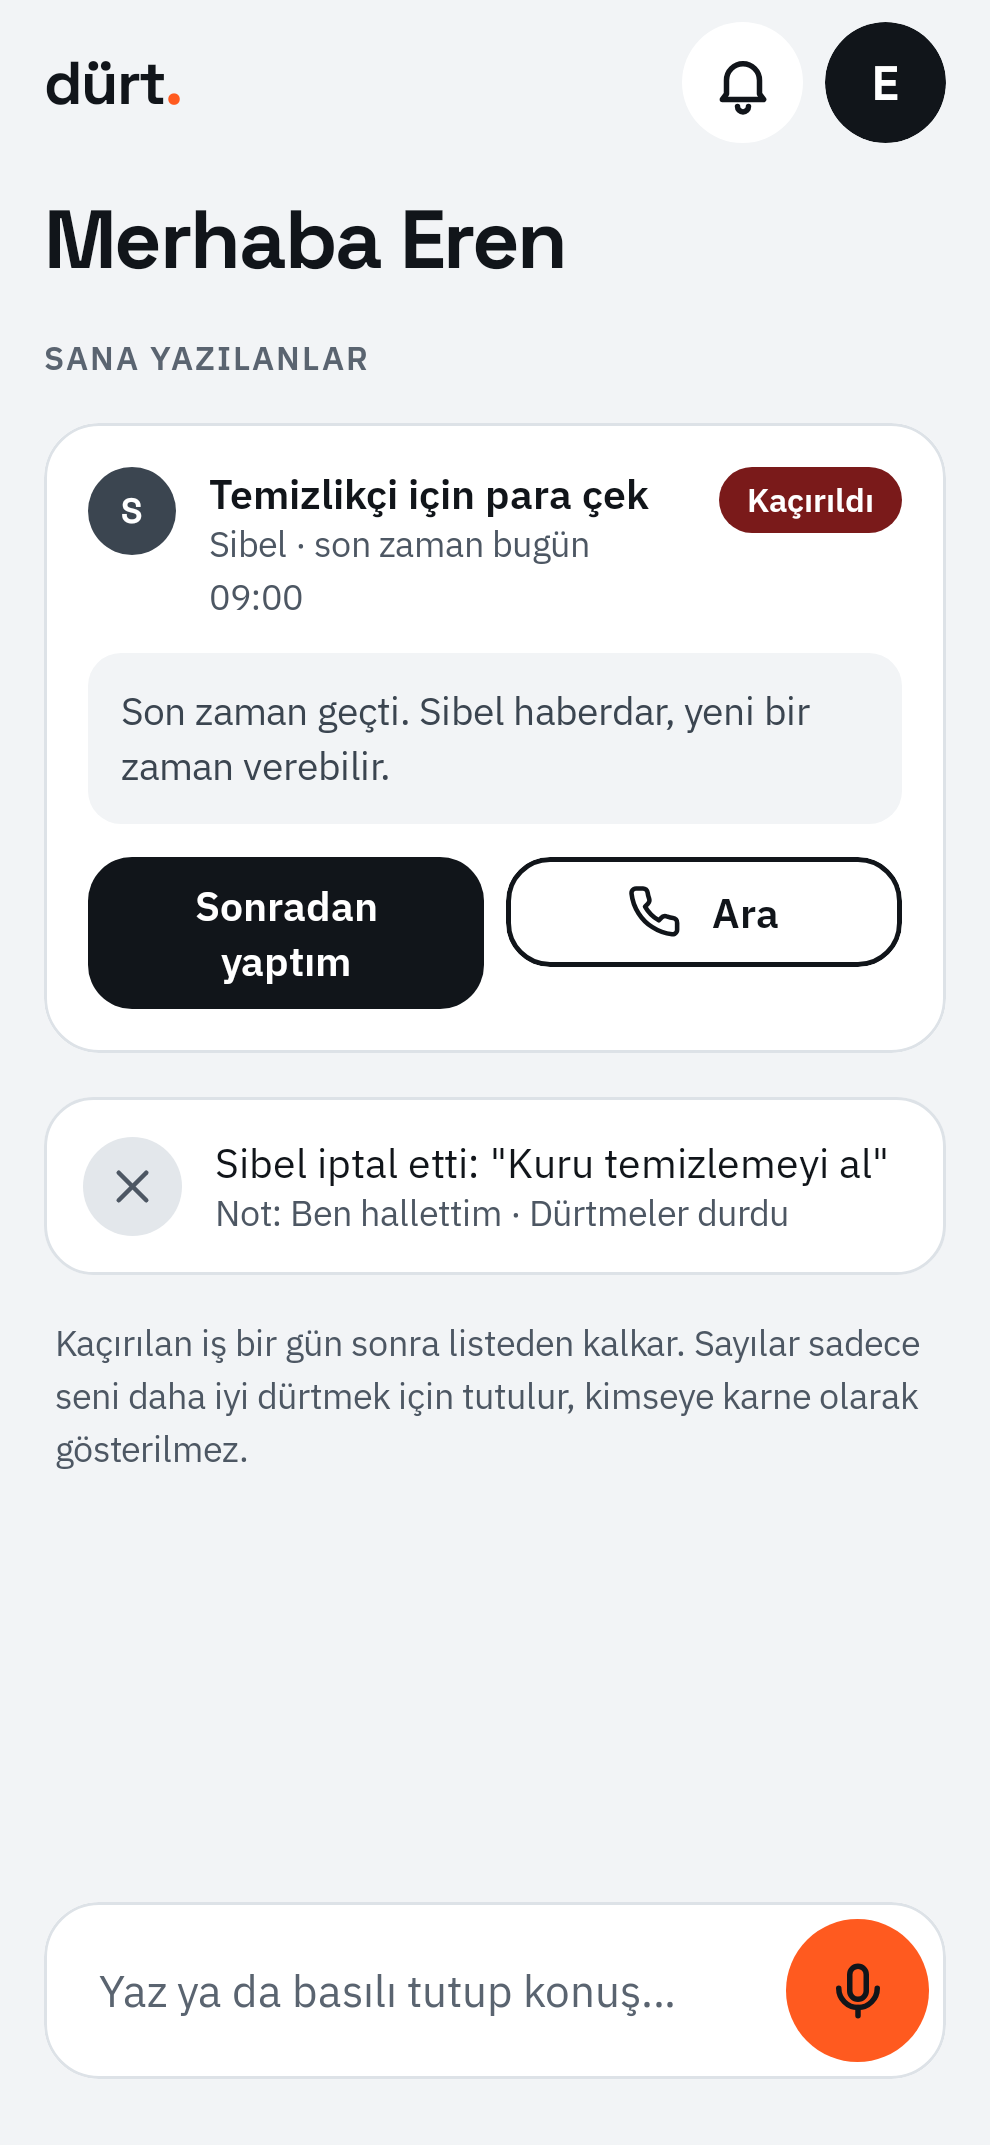
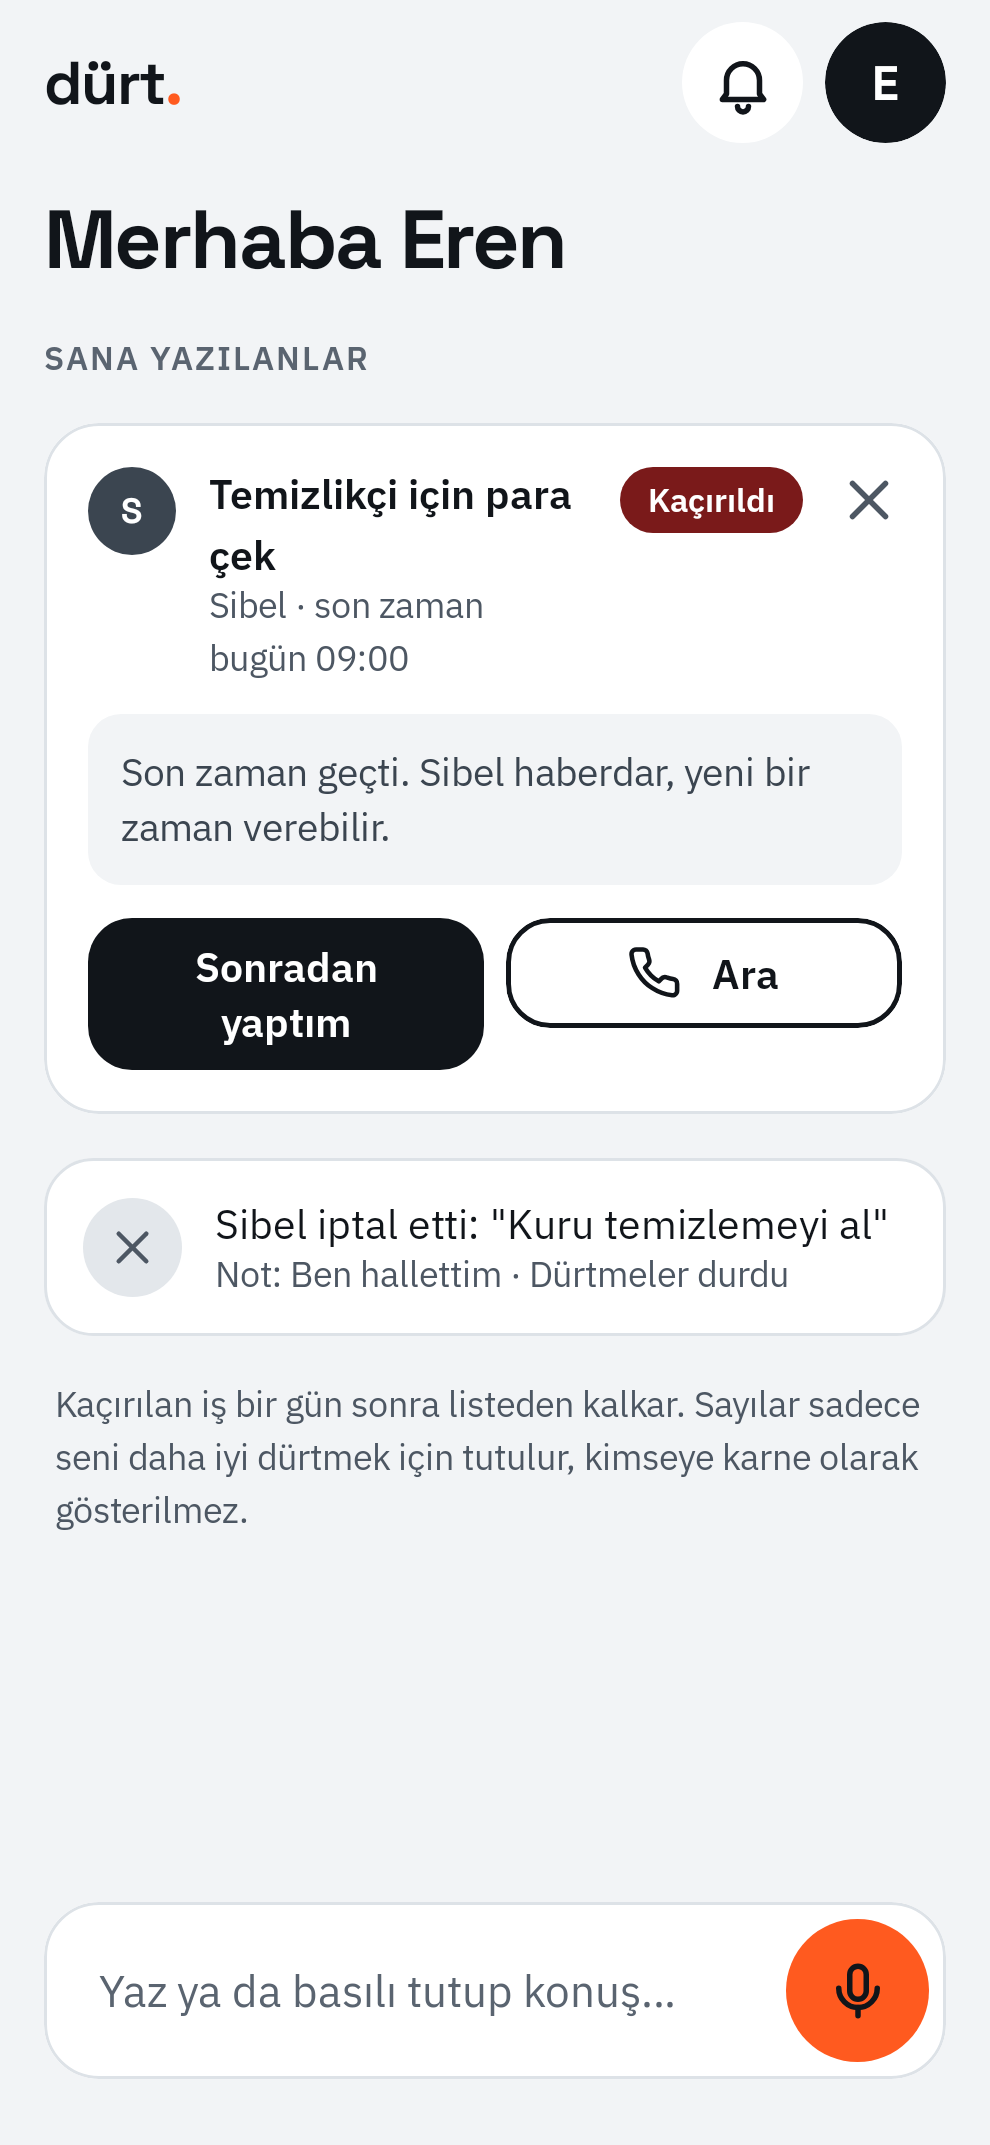
NUD-49 Kaldır on a missed card, Android
The recipient's missed card gets a close button (×, "Kaldır") in its top
right. It takes the card off my list at once and queues remove_missed; the
task stays missed for the sender.

Claude-Session: https://claude.ai/code/session_01MpnPveQqLsx472DNRojrYK

diff --git a/apps/android/app/src/main/kotlin/app/nuddle/ui/components/TaskCards.kt b/apps/android/app/src/main/kotlin/app/nuddle/ui/components/TaskCards.kt
@@ -4,13 +4,17 @@ import androidx.compose.foundation.background
 import androidx.compose.foundation.border
 import androidx.compose.foundation.clickable
 import androidx.compose.foundation.layout.Arrangement
+import androidx.compose.foundation.layout.Box
 import androidx.compose.foundation.layout.Column
 import androidx.compose.foundation.layout.FlowRow
 import androidx.compose.foundation.layout.Row
 import androidx.compose.foundation.layout.fillMaxWidth
 import androidx.compose.foundation.layout.heightIn
 import androidx.compose.foundation.layout.padding
+import androidx.compose.foundation.layout.size
+import androidx.compose.foundation.shape.CircleShape
 import androidx.compose.foundation.shape.RoundedCornerShape
+import androidx.compose.material3.Icon
 import androidx.compose.material3.Text
 import androidx.compose.runtime.Composable
 import androidx.compose.runtime.Immutable
@@ -21,10 +25,15 @@ import androidx.compose.ui.graphics.Color
 import androidx.compose.ui.graphics.vector.ImageVector
 import androidx.compose.ui.platform.testTag
 import androidx.compose.ui.res.stringResource
+import androidx.compose.ui.semantics.Role
 import androidx.compose.ui.semantics.clearAndSetSemantics
 import androidx.compose.ui.semantics.contentDescription
+import androidx.compose.ui.semantics.role
+import androidx.compose.ui.semantics.semantics
 import androidx.compose.ui.text.style.TextOverflow
 import app.nuddle.R
+import app.nuddle.ui.TestTags
+import app.nuddle.ui.icons.DurtIcons
 import app.nuddle.ui.preview.PreviewComponent
 import app.nuddle.ui.preview.PreviewSurface
 import app.nuddle.ui.theme.DurtTheme
@@ -146,6 +155,8 @@ fun TaskActionCard(
     primary: CardAction,
     modifier: Modifier = Modifier,
     secondary: CardAction? = null,
+    /** A close button (×, "Kaldır") in the top right: the recipient's missed card (NUD-49). */
+    onRemove: (() -> Unit)? = null,
 ) {
     val colors = DurtTheme.colors
     val dimens = DurtTheme.dimens
@@ -167,6 +178,7 @@ fun TaskActionCard(
                 Text(task.subtitle, style = DurtTheme.type.caption, color = colors.textSecondary)
             }
             StatusPill(task.status)
+            if (onRemove != null) RemoveButton(onRemove)
         }
         Text(
             text = message,
@@ -197,6 +209,24 @@ fun TaskActionCard(
                 )
             }
         }
+    }
+}
+
+/** The × of a card that can be taken off the list (NUD-49). */
+@Composable
+private fun RemoveButton(onRemove: () -> Unit) {
+    val description = stringResource(R.string.issue_remove)
+    Box(
+        modifier =
+            Modifier
+                .size(DurtTheme.dimens.iconLarge)
+                .clip(CircleShape)
+                .clickable(role = Role.Button, onClick = onRemove)
+                .semantics { contentDescription = description }
+                .testTag(TestTags.ISSUE_REMOVE),
+        contentAlignment = Alignment.Center,
+    ) {
+        Icon(DurtIcons.Close, contentDescription = null, tint = DurtTheme.colors.textSecondary)
     }
 }
 

diff --git a/apps/android/app/src/main/kotlin/app/nuddle/data/TaskRepository.kt b/apps/android/app/src/main/kotlin/app/nuddle/data/TaskRepository.kt
@@ -6,6 +6,7 @@ import app.nuddle.api.model.DidItLaterCommand
 import app.nuddle.api.model.EditCommand
 import app.nuddle.api.model.FinishMode
 import app.nuddle.api.model.NewDeadlineCommand
+import app.nuddle.api.model.RemoveMissedCommand
 import app.nuddle.api.model.SenderHandlesCommand
 import app.nuddle.api.model.TaskStatus
 import app.nuddle.api.model.Timing
@@ -146,6 +147,9 @@ interface TaskRepository {
 
     /** "Sonradan yaptım" on a missed task (7e): done, late (open-questions#9). Local first, then the outbox. */
     suspend fun didItLater(taskId: String)
+
+    /** "Kaldır" on my missed card (NUD-49): off my list only; the task stays missed for the sender. Local first. */
+    suspend fun removeMissed(taskId: String)
 
     /** "Ben hallederim" on a dropped task (5d): the sender takes it over (open-questions#8). Local first. */
     suspend fun senderHandles(taskId: String)
@@ -297,6 +301,12 @@ class ApiTaskRepository
             tasks.setStatus(taskId, TaskStatus.DONE.value)
             val id = ids.next()
             outbox.enqueue("did_it_later", id, DidItLaterCommand(idempotencyKey = id, taskId = taskId), DidItLaterCommand.serializer())
+        }
+
+        override suspend fun removeMissed(taskId: String) {
+            tasks.hideFromMyList(taskId)
+            val id = ids.next()
+            outbox.enqueue("remove_missed", id, RemoveMissedCommand(idempotencyKey = id, taskId = taskId), RemoveMissedCommand.serializer())
         }
 
         override suspend fun senderHandles(taskId: String) {

diff --git a/apps/android/app/src/test/kotlin/app/nuddle/data/TaskRepositoryTest.kt b/apps/android/app/src/test/kotlin/app/nuddle/data/TaskRepositoryTest.kt
@@ -308,6 +308,27 @@ class TaskRepositoryTest {
         }
 
     @Test
+    fun `Kaldır takes a missed card off my list at once and queues remove_missed (NUD-49)`() =
+        runTest {
+            db.tasks().upsert(listOf(aTask().copy(status = "MISSED")))
+
+            repository.removeMissed(Cast.TASK_ID)
+
+            val task = db.tasks().get(Cast.TASK_ID)
+            assertEquals(false, task?.inRecipientList)
+            assertEquals("MISSED", task?.status)
+            assertEquals(
+                "remove_missed",
+                db
+                    .outbox()
+                    .pending()
+                    .single()
+                    .command,
+            )
+            assertEquals(0, server.requestCount)
+        }
+
+    @Test
     fun `Ben hallederim cancels a dropped task at once and queues sender_handles`() =
         runTest {
             db.tasks().upsert(listOf(aTask().copy(senderId = Cast.EREN_ID, recipientId = Cast.SIBEL_ID, status = "DROPPED")))

diff --git a/apps/android/app/src/test/kotlin/app/nuddle/testing/Fakes.kt b/apps/android/app/src/test/kotlin/app/nuddle/testing/Fakes.kt
@@ -324,6 +324,13 @@ class FakeTaskRepository : TaskRepository {
         didItLater += taskId
     }
 
+    /** Every "Kaldır" on a missed card (NUD-49). */
+    val removedMissed = mutableListOf<String>()
+
+    override suspend fun removeMissed(taskId: String) {
+        removedMissed += taskId
+    }
+
     override suspend fun senderHandles(taskId: String) {
         senderHandled += taskId
     }
@@ -366,6 +373,10 @@ class InMemoryTaskDao : TaskDao {
     override suspend fun all(): List<TaskEntity> = tasks.value.values.toList()
 
     override fun observeAll(): Flow<List<TaskEntity>> = tasks.map { it.values.toList() }
+
+    override suspend fun hideFromMyList(id: String) {
+        tasks.value[id]?.let { tasks.value += id to it.copy(inRecipientList = false) }
+    }
 
     override suspend fun setStatus(
         id: String,

diff --git a/apps/android/app/src/main/kotlin/app/nuddle/ui/screens/home/HomeIssues.kt b/apps/android/app/src/main/kotlin/app/nuddle/ui/screens/home/HomeIssues.kt
@@ -38,6 +38,7 @@ import app.nuddle.ui.uppercaseForUi
 
 data class IssueCallbacks(
     val onDidItLater: (taskId: String) -> Unit = {},
+    val onRemoveMissed: (taskId: String) -> Unit = {},
     val onCall: (phone: String) -> Unit = {},
     val onNewDeadline: (taskId: String) -> Unit = {},
     val onSenderHandles: (taskId: String) -> Unit = {},
@@ -92,6 +93,7 @@ private fun MissedCard(
                 personName = from ?: "",
                 personColor = task.fromId?.let { colors.avatarFor(it) } ?: colors.avatarSelf,
             ),
+        onRemove = { callbacks.onRemoveMissed(task.taskId) },
         message =
             when {
                 from == null && task.deadline.moment -> stringResource(R.string.issue_missed_self_moment)

diff --git a/apps/android/app/src/test/kotlin/app/nuddle/ui/HomeIssuesViewModelTest.kt b/apps/android/app/src/test/kotlin/app/nuddle/ui/HomeIssuesViewModelTest.kt
@@ -92,10 +92,12 @@ class HomeIssuesViewModelTest {
         runTest(main.dispatcher) {
             ready()
             vm.onDidItLater("missed-to-me")
+            vm.onRemoveMissed("missed-to-me")
             vm.onSenderHandles("dropped")
             vm.onCancel(Cast.TASK_ID)
 
             assertEquals(listOf("missed-to-me"), tasks.didItLater)
+            assertEquals(listOf("missed-to-me"), tasks.removedMissed)
             assertEquals(listOf("dropped"), tasks.senderHandled)
             assertEquals(listOf<String?>(null), tasks.cancelNotes)
         }

diff --git a/apps/android/app/src/main/kotlin/app/nuddle/ui/nav/NuddleNavHost.kt b/apps/android/app/src/main/kotlin/app/nuddle/ui/nav/NuddleNavHost.kt
@@ -277,6 +277,7 @@ fun NuddleNavHost(
                     issueActions =
                         IssueCallbacks(
                             onDidItLater = issues::onDidItLater,
+                            onRemoveMissed = issues::onRemoveMissed,
                             onCall = { activity?.dial(it) },
                             onNewDeadline = issues::onNewDeadline,
                             onSenderHandles = issues::onSenderHandles,

diff --git a/apps/android/app/src/main/kotlin/app/nuddle/data/db/Daos.kt b/apps/android/app/src/main/kotlin/app/nuddle/data/db/Daos.kt
@@ -22,6 +22,10 @@ interface TaskDao {
     @Query("SELECT * FROM tasks")
     fun observeAll(): Flow<List<TaskEntity>>
 
+    /** "Kaldır" on a missed card (NUD-49): off my list at once, before the server knows. */
+    @Query("UPDATE tasks SET inRecipientList = 0 WHERE id = :id")
+    suspend fun hideFromMyList(id: String)
+
     @Query("UPDATE tasks SET status = :status WHERE id = :id")
     suspend fun setStatus(
         id: String,

diff --git a/apps/android/app/src/main/kotlin/app/nuddle/ui/screens/home/HomeIssuesViewModel.kt b/apps/android/app/src/main/kotlin/app/nuddle/ui/screens/home/HomeIssuesViewModel.kt
@@ -76,6 +76,10 @@ class HomeIssuesViewModel
             viewModelScope.launch { tasks.didItLater(taskId) }
         }
 
+        fun onRemoveMissed(taskId: String) {
+            viewModelScope.launch { tasks.removeMissed(taskId) }
+        }
+
         fun onSenderHandles(taskId: String) {
             viewModelScope.launch { tasks.senderHandles(taskId) }
         }

diff --git a/apps/android/app/src/main/kotlin/app/nuddle/ui/TestTags.kt b/apps/android/app/src/main/kotlin/app/nuddle/ui/TestTags.kt
@@ -140,6 +140,7 @@ object TestTags {
     const val POKE_SNOOZE = "poke.snooze"
     const val POKE_CANT_TODAY = "poke.cantToday"
     const val DROP_NOTE = "drop.note"
+    const val ISSUE_REMOVE = "issue.remove"
     const val ISSUE_DID_IT_LATER = "issue.didItLater"
     const val ISSUE_CALL = "issue.call"
     const val ISSUE_NEW_TIME = "issue.newTime"
